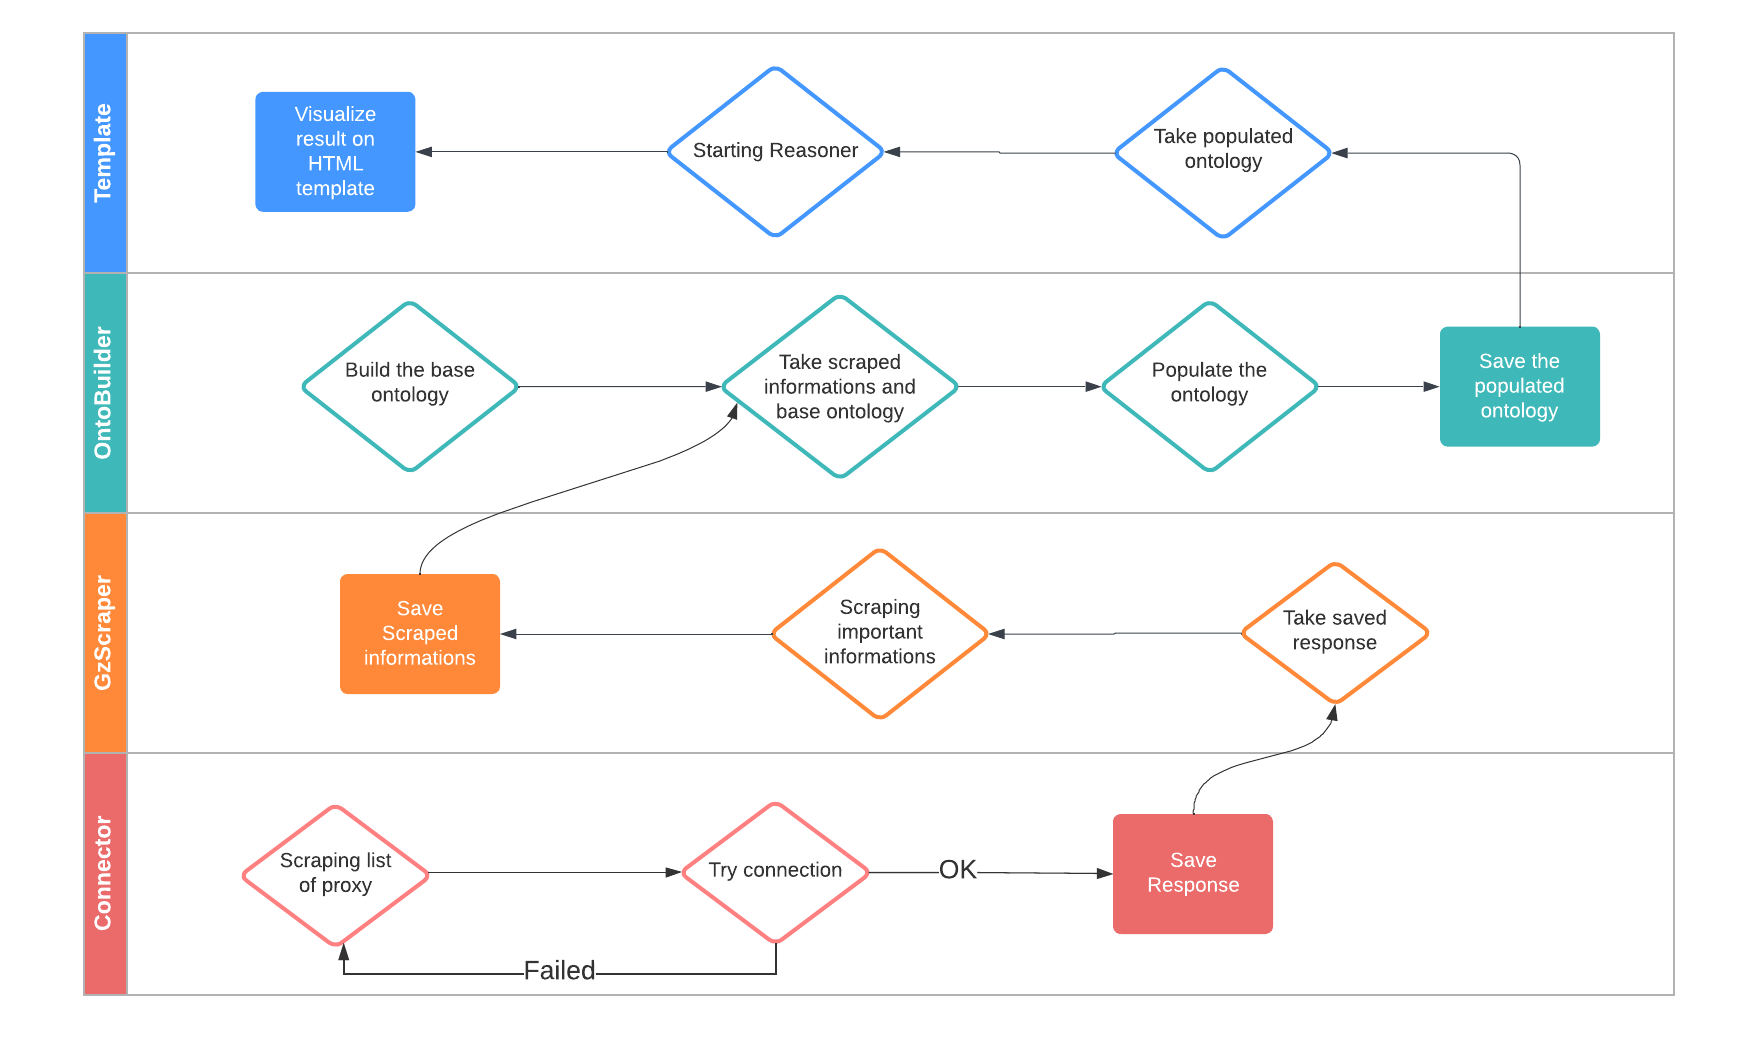
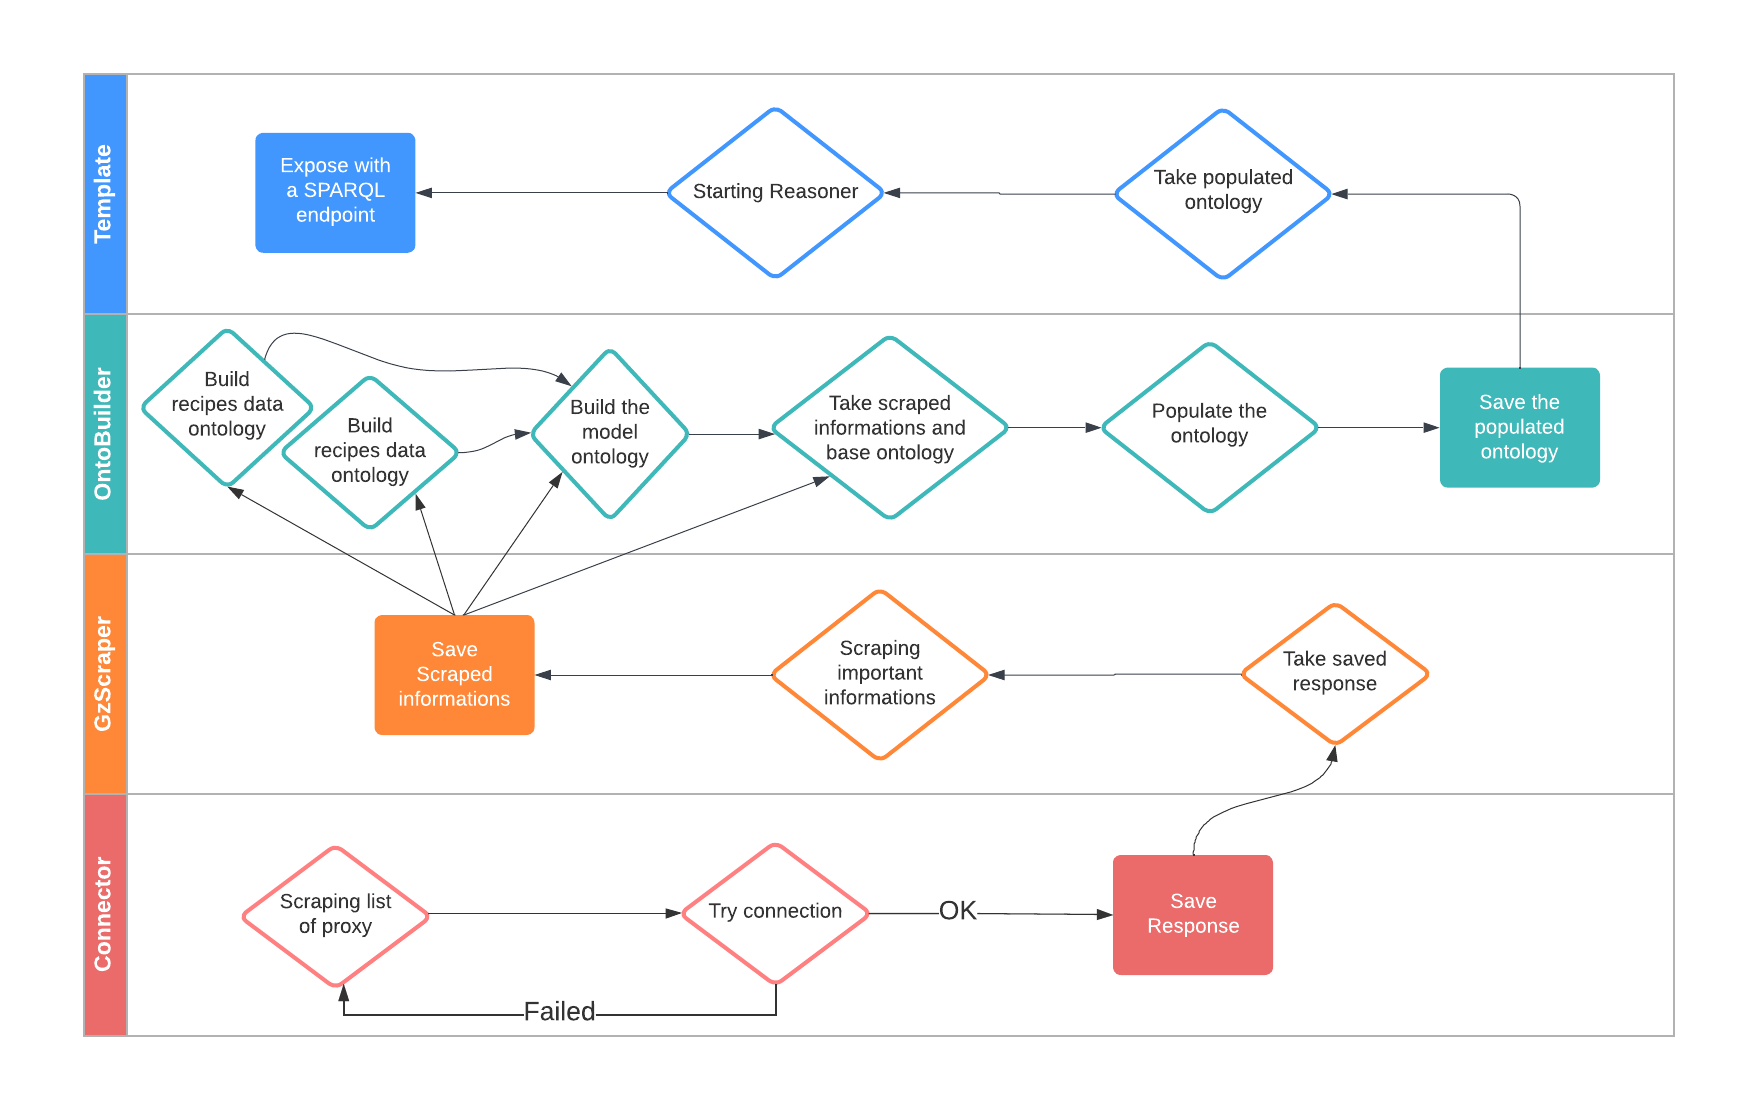
update documentation with API part

diff --git a/index.html b/index.html
@@ -243,17 +243,18 @@
             <li>Finally, we used Flask to visualize the template. Flask is a web application framework written in Python.
             </li>
           </ul>
-          <p>Our code is composed mainly of 5 classes:
+          <p>Our code is composed mainly of 5 pieces:
           </p>
           <ol>
             <li><strong>Connector</strong>. It takes care of establishing an anonymous connection to avoid IP address recognition. This is necessary to avoid IP blacklisting. It also implements a system of dynamic rotation of proxies: once caught the proxy free working continues to use it to send the next requests.
             </li>
-            <li><strong>GZScraper</strong>. It is responsible for indicating to the connector what resources it needs to extract all the information. This is a site-specific class. Each site will have its own class and methods (e.g. GialloZafferano has one class, LaRepubblica has another class). To generalize too much would be a mistake in this case. The cause is the great variability of the technologies used to create websites, which affects the HTML output. As the last step, this class manages to structure the CSV / JSON file where the data will be stored.
+            <li><strong>Scraper</strong>. It is responsible for indicating to the connector what resources it needs to extract all the information. This is a site-specific class. Each site will have its own class and methods (e.g. GialloZafferano has one class, LaRepubblica has another class). To generalize too much would be a mistake in this case. The cause is the great variability of the technologies used to create websites, which affects the HTML output. As the last step, this class manages to structure the CSV / JSON file where the data will be stored.
             </li>
-            <li><strong>Ontobuilder</strong>: This class is used to populate the base ontology with the information retrieved by scraping
+            <li><strong>OntoBuilder</strong>: This class is used to populate the base ontology with the information retrieved by scraping
 
             </li>
-            <li><strong>The query_class</strong>: this class consists of several methods, each of which performs a particular query on the database
+            <li><strong>API endpoint</strong>: this is a simple API, where individuals entities can be extracted from the ontology by using a POST request with a SPARQL query as body
+               and simple GET requests for fastly quering most of the information inside the ontology. 
 
             </li>
             <li><strong>Template</strong>:  a small piece of HTML to display the results obtained by populating the ontology and triggering the reasoner on the ontology
@@ -265,9 +266,20 @@
           
 
           <h3>3.4 Our Pipeline</h3>
-          <a class="logo ml-md-3" title="Manoscritto"> <img src="assets/images/Recipology_workflow.png" class="img-fluid" alt="Pipeline" style="width:100%"  /> </a>
+          <a class="logo ml-md-3" title="Recipology Pipeline"> <img src="assets/images/Recipology_workflow.png" class="img-fluid" alt="Pipeline" style="width:100%"  /> </a>
           <p><i>Figure 5. Recipology Pipeline</i></p>
           <span class="text-2 ml-2"></span>
+          <p>Our pipeline is composed by the following steps:
+          </p>
+          <ol>
+            <li><strong>Scraping and creation of the dataset</strong>: using the connector and scraper we derive all the information needed to create our recipe dataset. The information extracted is: recipe name, ingredients, steps to make the recipes, and quantity of ingredients.</li>
+            <li><strong>Creation of ontologies containing the data*</strong>: creation via the OWLReady 2 library of two pipelines to create two owl files containing the rearranged data: one file with only the recipes and one file with only the ingredients.</li>
+            <li><strong>Creation of the recipology ontology*</strong>: creation of a third pipeline that combines the ontologies obtained from the previous two pipelines, so as to obtain the final recipology ontology.
+            </li>
+            <p>
+              <i>* all the ontology pipeline are inside the run.py file and can be executed if the dataset is provided </i>
+            </p>
+          </ol>
 
 		
         
@@ -283,16 +295,17 @@
 
           <h3>4.1 Competency questions</h3>
           <p>Following the XD methodology, we developed some competency questions to understand the scope of our ontology.
-            They are grouped into four scenarios that help us to explore the user0s needs and the actual situations that can happen daily.
+            They are grouped into four scenarios that help us to explore the users needs and the actual situations that can happen daily.
+            in the ontology actually only some of the planned scenarios are implemented, due to development time. The implemented scenarios are indicated in parentheses.
             </p>
           <h4>Scenario nr.1</h4>
           <p><strong>Diet</strong>.The users want to eat food according to a specific diet for a specific period of time. The user tells the system what I want to build the diet on, and the system is able to return to them a list of recipes organized by day.
           </p>
-          <p><i>Competency questions:</i></p>
+          <p><i>Competency questions: (Implemented)</i></p> 
           <ol>
             <li>Which is the kind of food on which the user wants to build their diet?
             </li>
-            <li>Which kitchen tools does the user have?
+            <li>Which are the ingredients necessary for complete a selected dish?
             </li>
             <li>Which recipes in the databases match the requirements?</li>
           </ol>
@@ -429,15 +442,15 @@
 
           <p>Then, an over-classification is applied to the groups, which are divided in Energetic, Protective and Plastic aliments,  as represented in the following schema:
           </p>
-          <a class="logo ml-md-3" title="Manoscritto"> <img src="assets/images/schema1.png" alt="ispirations"  /> </a>
+          <a class="logo ml-md-3" title="Energetic Aliments"> <img src="assets/images/schema1.png" alt="ispirations"  /> </a>
           <p><i>Figure 8. Energetic Aliments </i></p>
           <span class="text-2 ml-2"></span>
           <br>
-          <a class="logo ml-md-3" title="Manoscritto"> <img src="assets/images/schema2.png" alt="ispirations" /> </a>
+          <a class="logo ml-md-3" title="Protective Aliments"> <img src="assets/images/schema2.png" alt="ispirations" /> </a>
           <p><i>Figure 9. Protective Aliments </i></p>
           <span class="text-2 ml-2"></span>
           <br>
-          <a class="logo ml-md-3" title="Manoscritto"> <img src="assets/images/schema3.png" alt="ispirations"/> </a>
+          <a class="logo ml-md-3" title="Plastic Aliments"> <img src="assets/images/schema3.png" alt="ispirations"/> </a>
           <p><i>Figure 10. Plastic Aliments </i></p>
           <span class="text-2 ml-2"></span>
           <br>
@@ -447,13 +460,11 @@
     <p>Our ontology revolves around three main categories: <strong>Execution, Recipe, and Ingredient.</strong>
     </p>
     <ol>
-      <li><strong>Execution</strong> = this class represents the necessary steps to complete the recipe. 
-      </li>
       <li><strong>Recipe</strong> = this class represents food recipes. A recipe is an entity produced by the composition of a series of ingredients through a specific, human process. 
       </li>
       <li><strong>Ingredient</strong> = this class represents ingredients used to assemble recipes.</li>
     </ol>
-    <a class="logo ml-md-3" title="Manoscritto"> <img src="assets/images/sette.png" class="img-fluid" alt="ispirations"  /> </a>
+    <a class="logo ml-md-3" title="three main classes"> <img src="assets/images/sette.png" class="img-fluid" alt="ispirations" style="width: 15%;" /> </a>
     <p><i>Figure 11. The three main classes on Protégé
     </i></p>      
     <span class="text-2 ml-2"></span>
@@ -461,30 +472,30 @@
     <p>Then, the class Ingredient is divided into different subclasses that reflect the food classification system presented in section 4.2. So, we have:
     </p>
     <ol>
-      <li><strong>Ingredient_by_food groups</strong> = this series of subclasses simply reflects the division of ingredients in groups, as seen in “Scienza e cultura degli alimenti”. 
+      <li><strong>Ingredient by food groups</strong> = this series of subclasses simply reflects the division of ingredients in groups, as seen in “Scienza e cultura degli alimenti”. 
       </li>
-      <li><strong>Ingredient_by_functions</strong> = this series of subclasses also comes from the same classification system and, in our ontology, it is automatically inferred starting from the food group. 
+      <li><strong>Ingredient by functions</strong> = this series of subclasses also comes from the same classification system and, in our ontology, it is automatically inferred starting from the food group. 
         <i>E.g. the ingredient X is part of group 1 OR group 5, then ingredient X is part of Energetic Ingredients.</i>        
       </li>
-      <li><strong>Ingredient_by _category</strong>: this series of subclasses is our recombination of the previous two classes and it’s the key series for actually classifying recipes. We summarized the scientific classes into a more practical and agile system of 6 sub-classes. 
+      <li><strong>Ingredient by category</strong>: this series of subclasses is our recombination of the previous two classes and it’s the key series for actually classifying recipes. We summarized the scientific classes into a more practical and agile system of 6 sub-classes. 
         <i>E.g. the ingredient X is part of class Beverage OR class Condiment OR Ingredient Group 2 OR Ingredient Group 5, then ingredient X is part of Vegan Ingredient.</i>
         </li>
     </ol>
     <p>It is important to specify that these three sets of subclasses are equal to each other that organize differently the same content. So, the ingredient Y is part of all three sub-categories without any contrast because they are <i>logically equivalent.</i>
     </p>
-    <a class="logo ml-md-3" title="Manoscritto"> <img src="assets/images/otto.png" alt="ispirations" /> </a>
+    <a class="logo ml-md-3" title="subclasses of the class Ingredient"> <img src="assets/images/otto.png" alt="ispirations" /> </a>
     <p><i>Figure 12. The subclasses of the class Ingredient on Protégé</i></p>      
           <span class="text-2 ml-2"></span>
           <br>
     <p>Also, the class <i>recipe</i> is divided into two equal sets of subclasses:
     </p>
     <ol>
-      <li><strong>Recipe_by_category</strong> = this series of subclasses simply mirrors the Ingredient_by_category subclass, so that according to ingredient category, also the recipe category is defined. 
+      <li><strong>Recipe by course</strong> = this series of subclasses simply mirrors the Ingredient_by_category subclass, so that according to ingredient category, also the recipe category is defined. 
       </li>
-      <li><strong>Recipe_by_type_GialloZafferano</strong> = this series of subclasses is useful for the dynamic scope of our ontology, so that classification systems can be imported by recipes’ websites and they can have an equivalent classification in our system. GialloZafferano is just the first example but RECIPOLOGY can be expanded with the integration of other systems.      
+      <li><strong>Recipe by diet</strong> = this series of subclasses is useful for the dynamic scope of our ontology, so that classification systems can be imported by recipes’ websites and they can have an equivalent classification in our system. GialloZafferano is just the first example but RECIPOLOGY can be expanded with the integration of other systems.      
       </li>
     </ol>
-    <a class="logo ml-md-3" title="Manoscritto"> <img src="assets/images/nove.png" alt="ispirations"  /> </a>
+    <a class="logo ml-md-3" title="The subclasses of the class Recipe"> <img src="assets/images/nove.png" alt="ispirations"  /> </a>
     <p><i>Figure 13. The subclasses of the class Recipe on Protégé
     </i></p>  
           <span class="text-2 ml-2"></span>
@@ -511,55 +522,45 @@
     </i></p>      
     <span class="text-2 ml-2"></span>
     <br>
-    <p>Here is an example of <strong>one recipe</strong>. With our script, we assign to each recipe three categories of types: 
+    <p>Here is an example of <strong>one recipe</strong>. With our script, we model an individual like this: 
     </p>
     <ol>
-      <li>the <strong>connection</strong> with the ingredients (which are themselves individuals) through the quantifier some, useful for all the categories that require just the presence of at last one element (within the ones specified in the category itself); 
+      <li><strong>withIngredient</strong>: an object property deduced from the HasSelectionOperation proeprty. It connects the recipe directly to the ingredients.
       </li>
-      <li><strong>The constrain</strong> only for closing the world of the considered individual in order to simplify the reasoning process;
+      <li><strong>The type with only</strong>: for allowing reasoning and, thus, the classification of recipes we have to close the individual on the ingredients. For achiving this we create a type on the individual.
       </li>
-      <li>Finally, the <strong>connection</strong> with the aforementioned selection operation.</li>
+      <li><strong>HasSelectionOperation</strong>: is the connection of the recipe with a single ingredient and its quantity. This resolved the aforementioned problem of n-ary relationship. The name of this design pattern is the reification of the entity.</li>
     </ol>
 
-    <a class="logo ml-md-3" title="Manoscritto"> <img src="assets/images/dodici.png" alt="ispirations"  /> </a>
+    <a class="logo ml-md-3" title="Manoscritto"> <img src="assets/images/dodici.png" alt="ispirations" style="width: 75%;"  /> </a>
     <p><i>Figure 16. The selection operation on Protégé </i></p>     
     <span class="text-2 ml-2"></span>
     <br>
 
     <p>Then we have an example of <strong>selection operations</strong>: the script populates the <i>selection operation</i> class with an individual for each ingredient for each recipe. Then, the script assigns the two entities described above to each selection operation's individual: one for the corresponding ingredient and another for the quantity of this latter ingredient.
     </p>
-    <a class="logo ml-md-3" title="Manoscritto"> <img src="assets/images/image11.png" class="img-fluid" alt="ispirations"  /> </a>
+    <a class="logo ml-md-3" title="Manoscritto"> <img src="assets/images/image11.png" class="img-fluid" alt="ispirations"  style="width: 75%;"/> </a>
     <p><i>Figure 17. The selection operation subclass
     </i></p>      
     <span class="text-2 ml-2"></span>
     <br>
-    <p>Here is <strong>an ingredient example</strong>: for this operation, the script provides a series of bash steps to the user in order to classify the ingredients as individuals into the corresponding food group under the <i>ingredient_by_food_group</i> class.
-    </p>
-    <a class="logo ml-md-3" title="Manoscritto"> <img src="assets/images/image8.png" class="img-fluid" alt="ispirations"  /> </a>
-    <p><i>Figure 18. The selection operation on the ingredients</i></p>     
-    <span class="text-2 ml-2"></span>
-    <br>
     <h3>4.7 Reasoning and classification of recipes</h3>
     <p>Our ontology adopt a <i>reasoner</i>, an algorithm built-in Protégé, that is able to make logical inferences. This reasoner re-classifies the recipes that we scraped into the categories that we defined into <i>recipes_by_category</i>. The reasoner is able to make this kind of reasonement thanks to the types which we have previously defined on individuals.</p>
-      <br>
-      <p>The classes to be populated without the reasoner</p>
-      <a class="logo ml-md-3" title="Manoscritto"> <img src="assets/images/Cattura.JPG" class="img-fluid" alt="ispirations"  /> </a>
-      <p><i>Figure 19. The classes without the reasoner on Protégé </i></p>    
-      <span class="text-2 ml-2"></span>
-      <br>
-    <p>The classes populated thanks to the reasoner</p>
-    <a class="logo ml-md-3" title="Manoscritto"> <img src="assets/images/Cattura1.JPG" class="img-fluid" alt="ispirations"  /> </a>
+    <p>The individual with new types thanks to the reasoner</p>
+    <a class="logo ml-md-3" title="Manoscritto"> <img src="assets/images/reasoning_example.png" class="img-fluid" alt="ispirations" style="width: 75%;" /> </a>
     <p><i>Figure 20. The classes with the reasoner on Protégé </i></p>     
     <span class="text-2 ml-2"></span>
     <br>
     <h3>4.8 Query information from ontology</h3>
-    <p>Before the last step (visualization), we created a class to retrieve information from the ontology in a systematic way, respecting our starting skill queries. The queries are obtained by combining both Sparbl and simplified queries from the Owlready2 library. The results of the queries are then combined, resulting in an overall final file. The script consists of the following functions:
+    <p>Before the last step (visualization), we created an API endpoint to retrieve information from the ontology in a systematic way, respecting our starting skill queries.
       <ul>
-        <li><strong>query_for_selection_individuals:</strong> deals with retrieving for each individual recipe the corresponding selection operations. From these, it retrieves the corresponding ingredient and its quantity.</li>
-        <li><strong>query_for_categories:</strong> it deals with retrieving the categories of the recipes, under the class Recipe_for_type_GialloZafferano.</li>
-        <li><strong>combination_category_informations _of_individuals:</strong> Combines the results of the previous categories. Each recipe is now a dictionary key, with values of its own ingredients, corresponding quantities, and finally the category of Giallo Zafferano.</li>
-        <li><strong>query_for_inferred_categories:</strong> retrieves the categories into which the recipes were reclassified after the reasoner action. These categories are added to the file obtained in the previous step.</li>
+        <li><strong>https://recipology-api.herokuapp.com/free_query</strong>: a POST request for send a custom SPARQL query</li>
+        <li><strong>https://recipology-api.herokuapp.com/recipes/{name_recipe}:</strong> a GET request for retrieve a recipe or a list of recipes starting from the name*</li>
+        <li><strong>https://recipology-api.herokuapp.com/ingredients/{name_ingredient}:</strong> a GET request for retrieve a recipe or a list of recipes starting from the ingredient or ingredients*</li>
+        <li><strong>https://recipology-api.herokuapp.com/categories/{name_category}:</strong> a GET request for retrieve a recipe or a list of recipes starting from the category or categories*</li>
       </ul></p>
+      <p><i>* all the GET requests concatenate the term provided in the list with an OR logic symbol</i></p>
+      <p><a href="https://recipology-api.herokuapp.com/">Try the API</a></p>
     <h3>4.9 Reasoning and Display results with Flask</h3>
     <p>Results retrieved via queries are deployed to a simple HTML template via Flask. The application dynamically displays a random recipe fished from within the ontology, highlighting its inferred categories thanks to the reasoner.
     </p>

diff --git a/assets/css/stylesheet.css b/assets/css/stylesheet.css
@@ -2962,7 +2962,7 @@ input:-internal-autofill-selected {
 
 
 img {
-  width: 40%;
+  width: 30%;
 }
 
 table td, table th {
